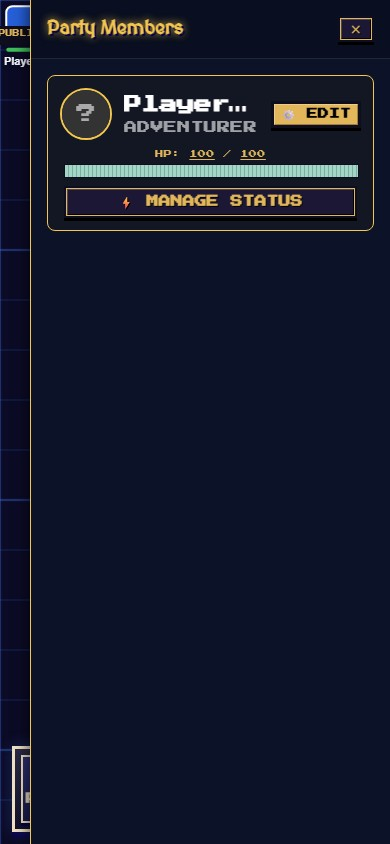
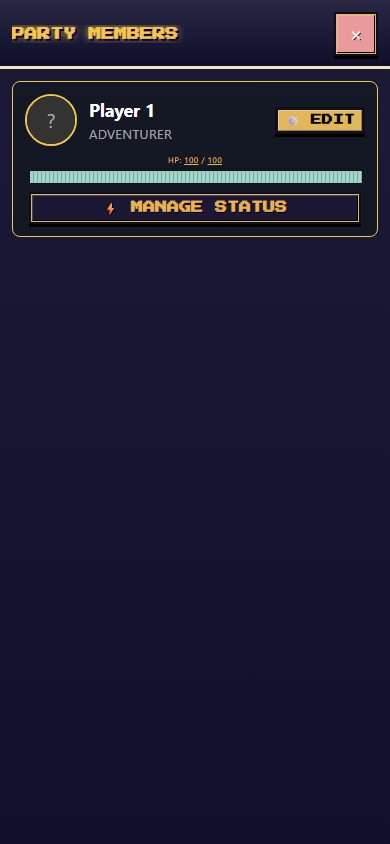
docs: M4a is shipped — the redesign doc, the handoff and the guide say so
- mobile-shell-redesign.md §2 M4a records the ship (5507e741, a2f6737d,
  f1952138) and its two deliberate deltas: Recenter went into the tool
  sheet rather than floating on the map (every floating anchor collides
  with existing chrome; §5's taste call stays open for the owner), and
  the DM screen is a placeholder until M4b. §3's four now-stale facts
  are marked ✎ instead of silently rotting.
- HANDOFF-NEXT §0/§2/§3C/§5: M4a baselines (e2e 109/0/3, client 44
  batches, bundle 97.28 KB), MobileLayout off the at-ceiling list
  (347 → 219), and the lesson that e2e specs are NOT __tests__-exempt
  from the 350 guard.
- player-guide.md's mobile section: party drawer → party screen, the
  drag-down dismissal, slot five's DM swap, and the TOOLS list finally
  includes Help (missing since S8) and Recenter.
- Re-recorded mobile-table/mobile-tools/mobile-party from the docs
  harness's mobile walkthrough, which still passes.

Known-broken and NOT this slice's doing, recorded in HANDOFF §2: the
harness's "player basics" and "live map authoring" walkthroughs fail
identically at pre-M4a 0441bcfd — pre-existing drift in an ungated
harness, queued as its own task rather than silently deferred.

This commit is markdown and images only; the full gate ran green at
f1952138 and the static checks (format, structure) re-ran here.

Changed region(s): [[0.0, 0.0, 1.0, 1.0], [0.0, 0.5853, 0.0308, 0.6161]]

diff --git a/docs/planning/HANDOFF-NEXT.md b/docs/planning/HANDOFF-NEXT.md
@@ -9,14 +9,16 @@ is a judgement call rather than a fact, it says so.
 **The Session One arc is DONE.** `docs/planning/session-one-arc.md` is the source of truth.
 S0–S7 are in production; **S8 and its review fixes are on `dev` and NOT deployed.**
 
-| Branch | Commit     | State                                                                          |
-| ------ | ---------- | ------------------------------------------------------------------------------ |
-| `dev`  | `c7d83f8f` | 38 commits on `main`: S8 + review + §11 cleanup, an e2e flake fix, then **M3**. |
-| `main` | `5307d0dd` | production, deployed, green                                                     |
+| Branch | Commit     | State                                                                                        |
+| ------ | ---------- | -------------------------------------------------------------------------------------------- |
+| `dev`  | `f1952138` | +docs: S8 + review + §11 cleanup, an e2e flake fix, **M3**, the M4 design doc, then **M4a**. |
+| `main` | `5307d0dd` | production, deployed, green                                                                  |
 
-**Read §3C first — the fork is closed and M4a is queued.** The owner chose the mobile authoring arc
-on 2026-08-09, M3 shipped the same day, and the design for M4 is settled in
-[mobile-shell-redesign.md](./mobile-shell-redesign.md).
+**Read §3C first — M4a SHIPPED on 2026-08-09 and M4b is next.** The owner chose the mobile
+authoring arc on 2026-08-09, M3 shipped the same day, and the design for M4 is settled in
+[mobile-shell-redesign.md](./mobile-shell-redesign.md), whose §2 M4a note now records what
+shipped and where it deviated (Recenter went into the tool sheet; the DM screen is a placeholder
+until M4b).
 
 `dev` is pushed and **CI is green on it** — run #765 finished Success in 7m 4s. Nothing has been
 merged to `main`, so none of it is deployed.
@@ -139,6 +141,18 @@ Re-run in full on 2026-08-09 at `9f4b3f15`: every row above still holds, and `ts
 (§7) cleanly. The e2e row held only after `5f93db94` — the first run of it was `96 passed / 1 flaky`
 (§5).
 
+**M4a moved the baselines (gate run in full before each of its commits, 2026-08-09):** M3 had
+already taken e2e to 106; at `f1952138` it is **109 passed / 0 failed / 3 skipped** (a drag-dismiss
+spec and two dock specs joined), the client is 44 batches, bundle 97.28 KB, shared/server counts
+unchanged.
+
+**Known-broken, pre-existing, NOT M4a's:** two of `pnpm docs:screenshots`' five walkthroughs fail —
+`docs-screenshots.player.ts` "player basics" (the character-name edit input intercepts the dice-bar
+click) and `docs-screenshots.dm.ts` "live map authoring" (the `Region: N × N cells` badge never
+appears for the Generate step). Verified identical at pre-M4a `0441bcfd` before concluding that.
+The harness is not in the §2 gate, so nothing guards it; the mobile walkthrough still passes and
+the three mobile screenshots were re-recorded from it.
+
 The client is back to 43 batches: the fixes added test files (44), then deleting
 `useNpcManagement`'s 709-line suite took one away again. E2E was 83 before S8's 14 new specs
 (4 desktop help, 5 mobile help, 5 bulk-NPC) and is unchanged by any of the fixes — worth noting,
@@ -199,8 +213,12 @@ joining the shared selector list in `herobyte.css`. It was measured with 900px o
 because nothing shipped today is tall enough to reach the cap — M4's palette is the first thing
 that will be.
 
-**M4 is designed and queued — read [mobile-shell-redesign.md](./mobile-shell-redesign.md), not the
-arc doc's §4 M4.** The owner answered Q3 on 2026-08-09 (**a mobile DM gets a full menu**) and asked
+**M4a SHIPPED 2026-08-09** (`5507e741` machine/extraction, `a2f6737d` Screens, `f1952138` slot
+five — each behind the full gate, each fix sabotage-proven). **M4b (the DM screen) is next — read
+[mobile-shell-redesign.md](./mobile-shell-redesign.md), not the arc doc's §4 M4.** The redesign
+doc's 50-prop trace for `buildDMMenuProps` is the part that saves the most time, and the `dm`
+surface + placeholder `MobileScreen` it will fill already exist. The owner answered Q3 on
+2026-08-09 (**a mobile DM gets a full menu**) and asked
 for a mobile-native shell — a separate screen rather than another sheet, "a more mobile focused
 usable UI over the RPG of it". That doc holds the model, the three slices M4 became (M4a shell /
 M4b DM screen / M4c room+wall), and — the part that saves the most time — **all 50 of
@@ -274,14 +292,18 @@ copy is a `create-npc` whose base name is the original's.
 ## 5. Traps that will cost you hours
 
 **The 350-LOC guard** flags `content.split("\n").length >= 350`, i.e. `wc -l >= 349`, so **348 is
-the real ceiling**. `__tests__` files are exempt; source files are not. It fails only on NEW
-violators. `prettier --write` EXPANDS files — re-check LOC after formatting. Live headroom on
-files near the line, re-measured 2026-08-09 after the §11 cleanup. **Three are within one line of
-the ceiling** — `characterValidators.ts` **348**, `MobileLayout.tsx` **347**, `useDMContext.ts`
-**347** — so any of them needs an extraction before it gains anything at all. Then
-`NPCEditor.tsx` 333, `helpTopics.ts` 301, `Header.tsx` 262, `NPCsTab.tsx` 235,
-`MobileFloatingControls.tsx` 223, `HelpMenuButton.tsx` 153. Already over and baselined (extract,
-don't grow): `layouts/props/MainLayoutProps.ts` 432, `domains/character/service.ts` 376.
+the real ceiling**. `__tests__` files are exempt; source files are not — and **e2e specs are NOT
+exempt** (M4a learned this at 374 lines: `mobile-shell.spec.ts` had to split off
+`mobile-dock.spec.ts`). It fails only on NEW violators. `prettier --write` EXPANDS files —
+re-check LOC after formatting. Live headroom on files near the line, re-measured 2026-08-09 after
+M4a. **Two are within one line of the ceiling** — `characterValidators.ts` **348**,
+`useDMContext.ts` **347** — so either needs an extraction before it gains anything at all.
+`MobileLayout.tsx` is no longer one of them: M4a's extraction took it 347 → **219** (the surface
+machine went to `hooks/useMobileSurface.ts`, the panels to `layouts/mobile/MobileSurfaces.tsx`).
+Then `NPCEditor.tsx` 333, `mobile-shell.spec.ts` 306, `helpTopics.ts` 301, `Header.tsx` 262,
+`NPCsTab.tsx` 235, `MobileFloatingControls.tsx` 220, `HelpMenuButton.tsx` 153. Already over and
+baselined (extract, don't grow): `layouts/props/MainLayoutProps.ts` 432,
+`domains/character/service.ts` 376.
 
 This bit three times in two days, always the same way — a comment explaining WHY a change was made
 is what crosses the line. A validator comment pushed `characterValidators.ts` to 351 and had to be

diff --git a/docs/planning/mobile-shell-redesign.md b/docs/planning/mobile-shell-redesign.md
@@ -20,11 +20,11 @@ Nothing here is inferred from the arc doc, whose line numbers are from 2026-08-0
 The mobile shell has exactly **three presentation kinds**, and which one a feature gets is decided
 by _whether you need to see the map while using it_ — not by how it was built on desktop.
 
-| kind       | geometry                                              | map visible? | what belongs here                              |
-| ---------- | ----------------------------------------------------- | ------------ | ---------------------------------------------- |
-| **Sheet**  | bottom, capped by `--mobile-sheet-offset` (M3)        | yes          | tool palette, selection, drawing, map-edit tools |
-| **Screen** | full height, opaque, own sticky header with a Back    | no           | Party, Dice, Log, Help, **DM**                 |
-| **Mode**   | no panel of its own — it re-purposes the dock          | **fully**    | map authoring                                  |
+| kind       | geometry                                           | map visible? | what belongs here                                |
+| ---------- | -------------------------------------------------- | ------------ | ------------------------------------------------ |
+| **Sheet**  | bottom, capped by `--mobile-sheet-offset` (M3)     | yes          | tool palette, selection, drawing, map-edit tools |
+| **Screen** | full height, opaque, own sticky header with a Back | no           | Party, Dice, Log, Help, **DM**                   |
+| **Mode**   | no panel of its own — it re-purposes the dock      | **fully**    | map authoring                                    |
 
 **Sheets are for things you operate _against_ the map. Screens are for things you read.** The
 current shell gets this wrong in both directions: the roll log is a full-screen takeover built out
@@ -87,7 +87,24 @@ surface with a header. Body copy already has permission to leave Press Start 2P
 
 The arc doc's M4 is three slices, not one. M5–M8 are unchanged and still stack after these.
 
-### M4a — the shell (no new features)
+### M4a — the shell (no new features) — **SHIPPED 2026-08-09**
+
+Four commits on `dev`: `5507e741` (the machine + the extraction), `a2f6737d` (MobileScreen; Log
+and Party become Screens), then the slot-five commit and the docs commit that carries this note.
+Two deltas against the plan below, both deliberate:
+
+- **Reset-camera went into the tool sheet** (`◇ Recenter`, beside Snap) rather than floating on
+  the map: every floating anchor collides with something (combat strip top-centre, sheets and the
+  selection sheet bottom), and the sheet slot was free. A player's dock slot five is still `View`,
+  so for players this is a second copy, not a move. The floating-control option remains open as
+  §5's taste call.
+- **The DM screen is a placeholder** ("the menu lands here next slice") — M4a ships the slot and
+  the surface; M4b ships the menu.
+
+`MobileLayout.tsx` ended at 219 lines; the machine's invariant is pinned by unit tests counting
+`data-mobile-surface` roots and by the e2e log-screen spec. `mobile-shell.spec.ts` was split
+(the slot-five specs live in `mobile-dock.spec.ts`) because e2e specs are NOT `__tests__`-exempt
+from the 350 guard.
 
 The keystone, and the analogue of what `--mobile-sheet-offset` did for M3: **one owner of "which
 surface is open."** Today that state is split across two components with two different arbitration
@@ -183,14 +200,16 @@ browser as a player sees fog respect the wall.
 
 ## 3. Verified facts (do not re-derive these)
 
-At `dev` = `c7d83f8f`, 2026-08-09:
+At `dev` = `c7d83f8f`, 2026-08-09 — **M4a has since moved four of these** (marked ✎):
 
-- `MobileLayout.tsx` is **347 lines of a 348 ceiling** and takes the whole `MainLayoutProps` bag —
-  so anything the desktop has, mobile already receives. It is a plumbing problem, not a data one.
+- ✎ `MobileLayout.tsx` was **347 lines of a 348 ceiling**; M4a's extraction took it to **219**,
+  and it still takes the whole `MainLayoutProps` bag — so anything the desktop has, mobile
+  already receives. It is a plumbing problem, not a data one.
 - `MainLayoutProps.ts` is **432 lines** and already over the guard (baselined; extract, don't grow).
-- `MobileFloatingControls.tsx` (223) owns the dock and the tool sheet, and owns `helpOpen` locally.
-- The dock's five buttons: Party, Tools, Dice, Log, **View (reset camera only)**.
-- The tool sheet holds eight: Move, Ping, Measure, Draw, Transform, Select, Snap, Help.
+- ✎ `MobileFloatingControls.tsx` owns the dock and the tool sheet; since M4a it owns **no state**
+  (`useMobileSurface` arbitrates, `MobileSurfaces` hosts the panels).
+- ✎ The dock's five buttons: Party, Tools, Dice, Log, then **View (player) / DM (isDM)**.
+- ✎ The tool sheet holds nine: Move, Ping, Measure, Draw, Transform, Select, Snap, Recenter, Help.
 - `DMMenuContainer` (255) ← `DMMenu` / `DMMenuTabs` (31) / five tab views (`MapTab` 217, `NPCsTab`
   235, `PlayersTab` 243, `PropsTab` 140, `SessionTab` 127). Rendered **only** from
   `FloatingPanelsLayout.tsx:225`, whose only non-test importer is `MainLayout.tsx:28`.
@@ -222,4 +241,6 @@ At `dev` = `c7d83f8f`, 2026-08-09:
   exists and it is undocumented. A tablet DM who would rather have the real palette cannot ask for
   it. M4a is the natural place if the answer is yes.
 - **The reset-camera control's new home** (floating on the map vs into the tool sheet) is a taste
-  call worth one screenshot before it is settled.
+  call worth one screenshot before it is settled. M4a put it in the tool sheet (`◇ Recenter`,
+  beside Snap) because every floating anchor collides with existing chrome; the floating control
+  is still on the table if the owner prefers it after seeing the screenshot.

diff --git a/docs/user-guide/player-guide.md b/docs/user-guide/player-guide.md
@@ -196,11 +196,13 @@ On a small or touch screen, HeroByte switches to a full-screen map with a five-b
 | ---------------------------------------------------------------------------- | ----------------------------------------------- |
 | ![Mobile layout: full-screen map with the bottom dock](img/mobile-table.jpg) | ![The mobile tools sheet](img/mobile-tools.jpg) |
 
-- **◉ PARTY** — the party drawer: portraits, HP (tap or drag to edit), status effects, and — on your own row — **⚙ EDIT** for name, portrait, and DM mode.
-- **⚒ TOOLS** — Move, Ping, Measure, Draw (a compact strip: tool, size, color, undo/redo), Transform, Select, and Snap.
+- **◉ PARTY** — the party screen: portraits, HP (tap or drag to edit), status effects, and — on your own row — **⚙ EDIT** for name, portrait, and DM mode.
+- **⚒ TOOLS** — Move, Ping, Measure, Draw (a compact strip: tool, size, color, undo/redo), Transform, Select, Snap, Recenter (re-centers the camera), and Help.
 - **⚂ DICE** — a full-screen roller; the result appears as a tap-to-dismiss card.
-- **≡ LOG** — the shared roll history. **◇ VIEW** recenters the camera.
+- **≡ LOG** — the shared roll history and the chat, full screen. **◇ VIEW** recenters the camera; if you're the DM, that slot reads **♛ DM** instead (the DM menu is on its way to mobile — Recenter in TOOLS covers the camera).
 
-![The mobile party drawer](img/mobile-party.jpg)
+Party and Log open as full screens: close them with the **✕**, or drag their title bar downward to flick them away.
+
+![The mobile party screen](img/mobile-party.jpg)
 
 One finger pans, two fingers pinch-zoom. A few desktop-only extras (CRT, game-feel settings, DM map authoring, player-state files) don't exist on mobile.
